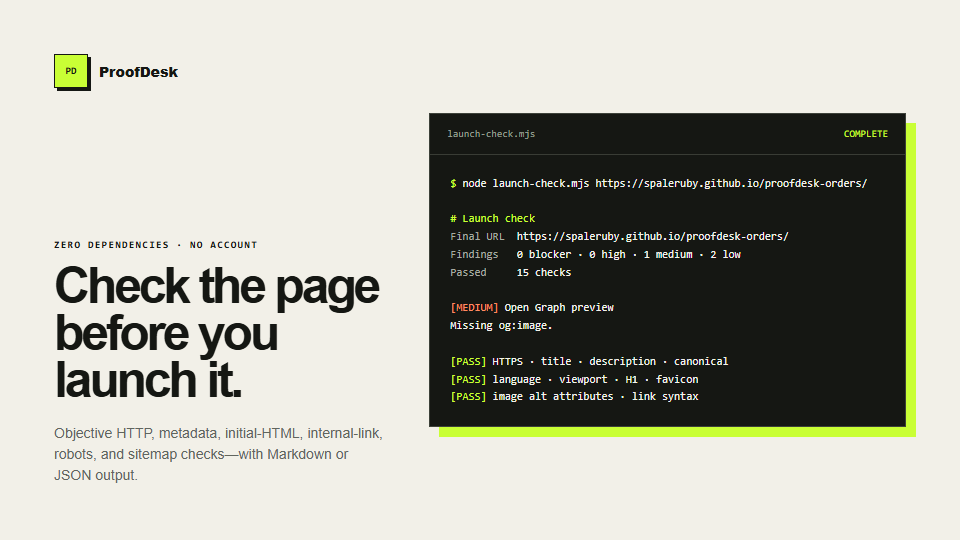
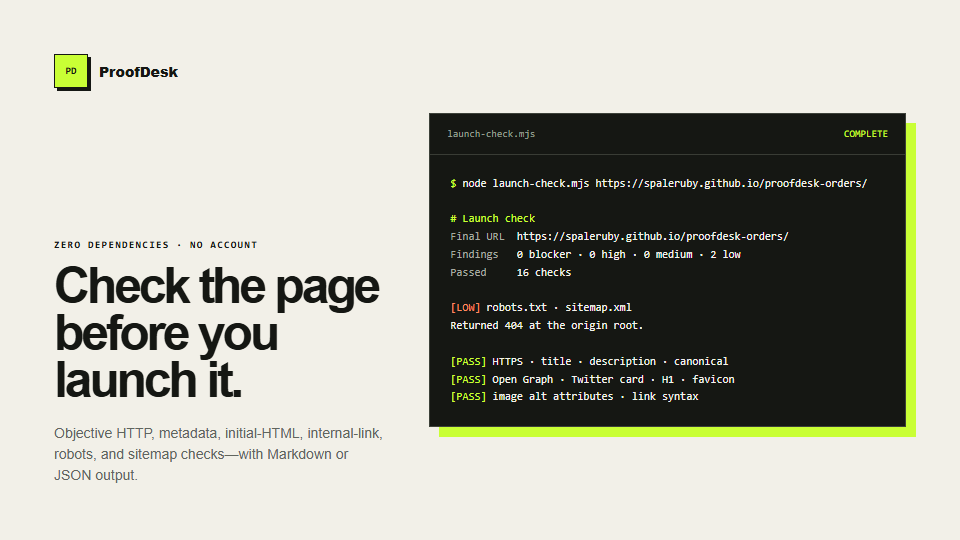
Improve the paid audit conversion path (#2)
Surface the $10 checked-report upgrade and keep the terminal demo synchronized with live output.

OpenAI Codex assisted with implementation and validation.

Changed region(s): [[0.4688, 0.563, 0.6562, 0.6222], [0.5, 0.6815, 0.7812, 0.7111]]

diff --git a/docs/terminal-demo.html b/docs/terminal-demo.html
@@ -97,14 +97,14 @@
 
 <span class="green"># Launch check</span>
 <span class="muted">Final URL</span>  https://spaleruby.github.io/proofdesk-orders/
-<span class="muted">Findings</span>   0 blocker · 0 high · 1 medium · 2 low
-<span class="muted">Passed</span>     15 checks
+<span class="muted">Findings</span>   0 blocker · 0 high · 0 medium · 2 low
+<span class="muted">Passed</span>     16 checks
 
-<span class="orange">[MEDIUM]</span> Open Graph preview
-Missing og:image.
+<span class="orange">[LOW]</span> robots.txt · sitemap.xml
+Returned 404 at the origin root.
 
 <span class="green">[PASS]</span> HTTPS · title · description · canonical
-<span class="green">[PASS]</span> language · viewport · H1 · favicon
+<span class="green">[PASS]</span> Open Graph · Twitter card · H1 · favicon
 <span class="green">[PASS]</span> image alt attributes · link syntax</pre>
     </section>
   </body>

diff --git a/README.md b/README.md
@@ -4,6 +4,11 @@ A zero-dependency, evidence-first check for public launch pages. It catches obje
 
 ![ProofDesk Launch Check terminal demo](docs/screenshot.png)
 
+> **Want a checked report instead of raw automation?**
+> The **$10 ProofDesk Launch QA Sprint** covers one public site, up to five pages, with 3–5 ranked findings and one complete sample before payment. **You pay $0 if the preview does not contain at least three distinct, reproducible findings.**
+>
+> [See scope and verified work](https://spaleruby.github.io/proofdesk-orders/) · [Request Launch QA on GitHub (sign-in required)](https://github.com/SpaleRuby/proofdesk-orders/issues/new?template=order.yml)
+
 ## Use it as a GitHub Action
 
 The Action uses GitHub's built-in Node.js runtime. It does not run `npm install`, require a checkout step, or load third-party packages.
